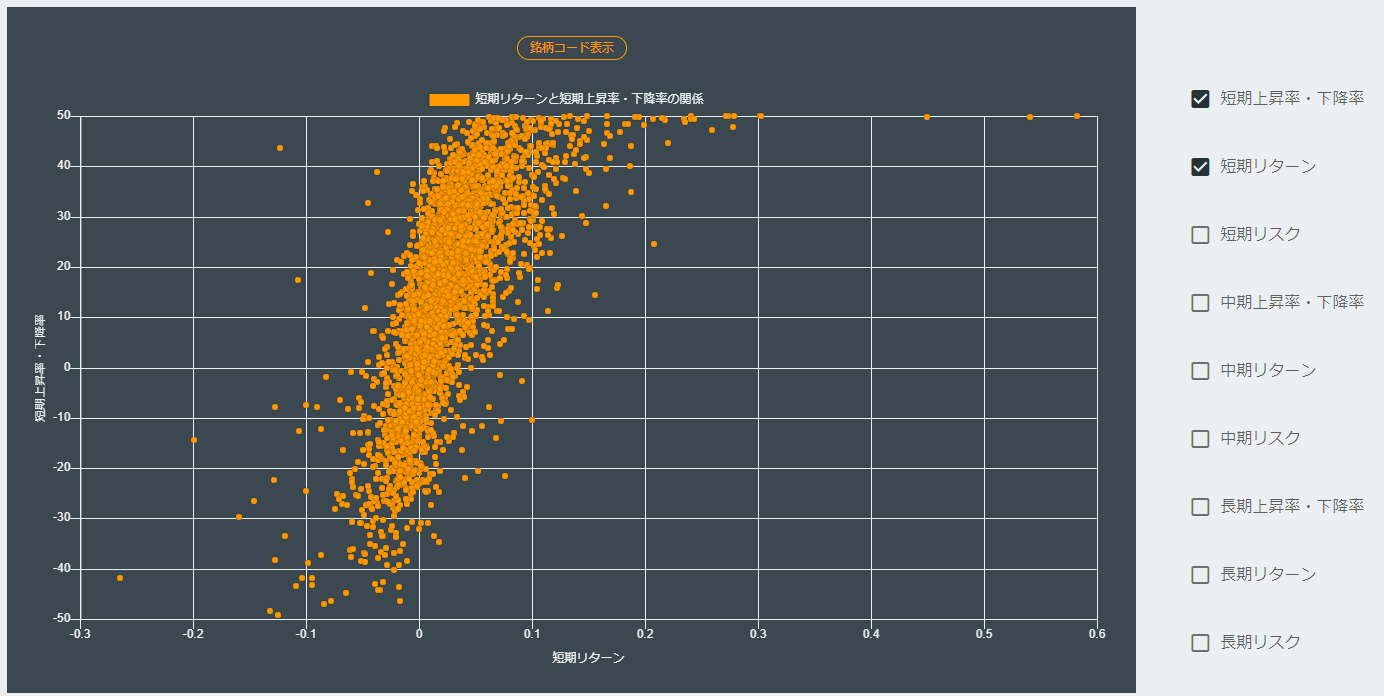
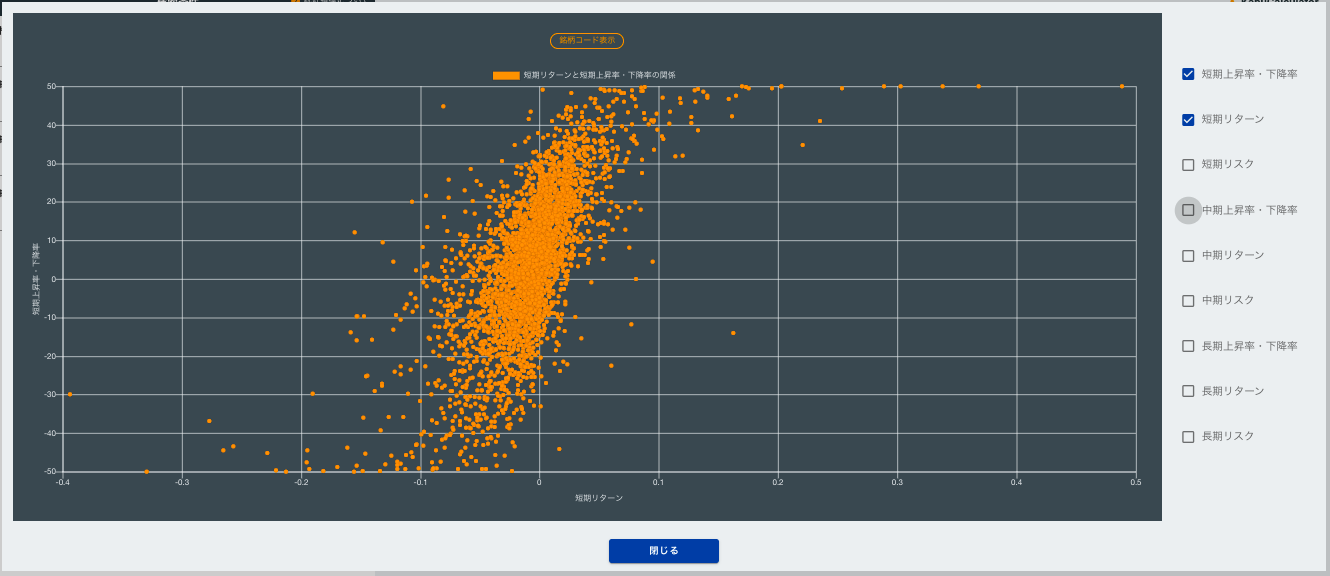
デザイン変更に伴い、READMEのスクリーンショットを修正

Changed region(s): [[0.0, 0.0, 1.0, 1.0], [0.6474, 0.1562, 0.6782, 0.1875], [0.5549, 0.125, 0.5857, 0.1562]]

diff --git a/README.md b/README.md
@@ -106,9 +106,6 @@ docker exec kabucalculator_batch_1 python -m flake8 test lib --exclude python3.9
 
 ### 銘柄抽出画面
 
-- 検索条件
-![スクリーンショット(検索条件)](/docs/screenshot_search_terms.png)
-
 - 指標一覧
 ![スクリーンショット(指標一覧)](/docs/screenshot_indicators_index.png)
 
